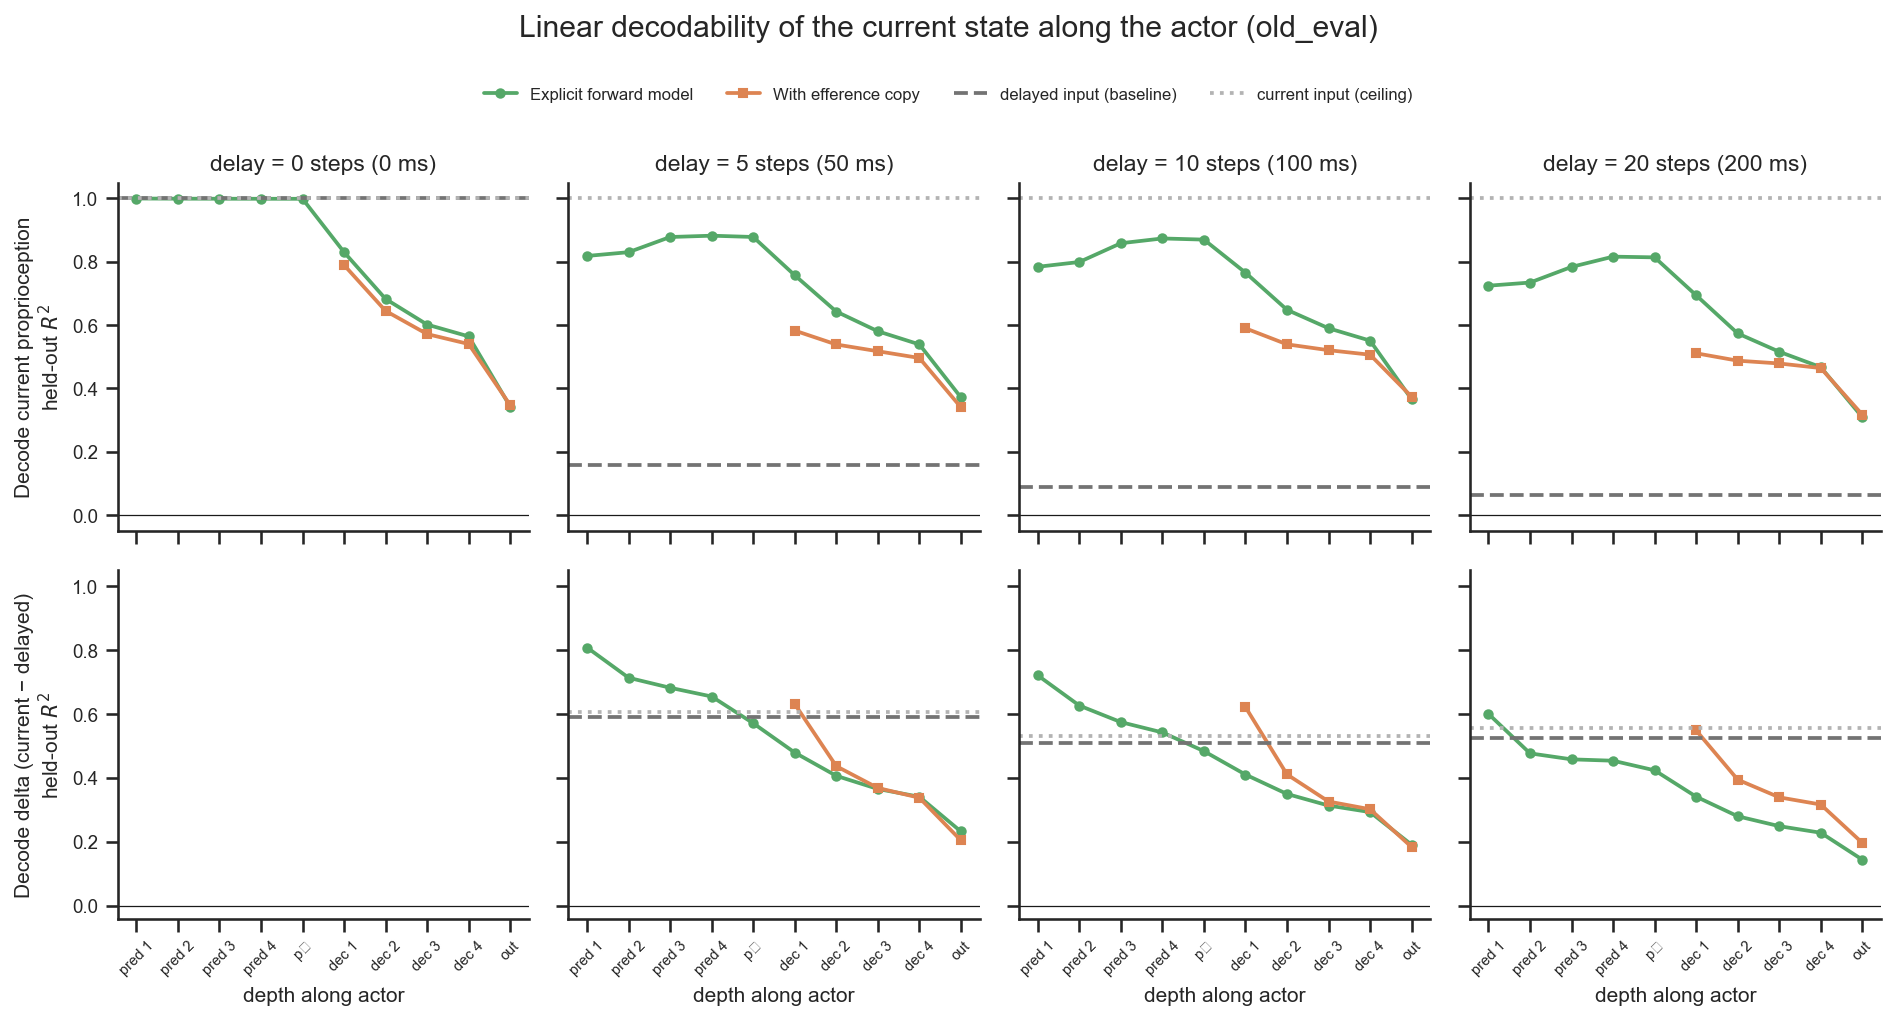
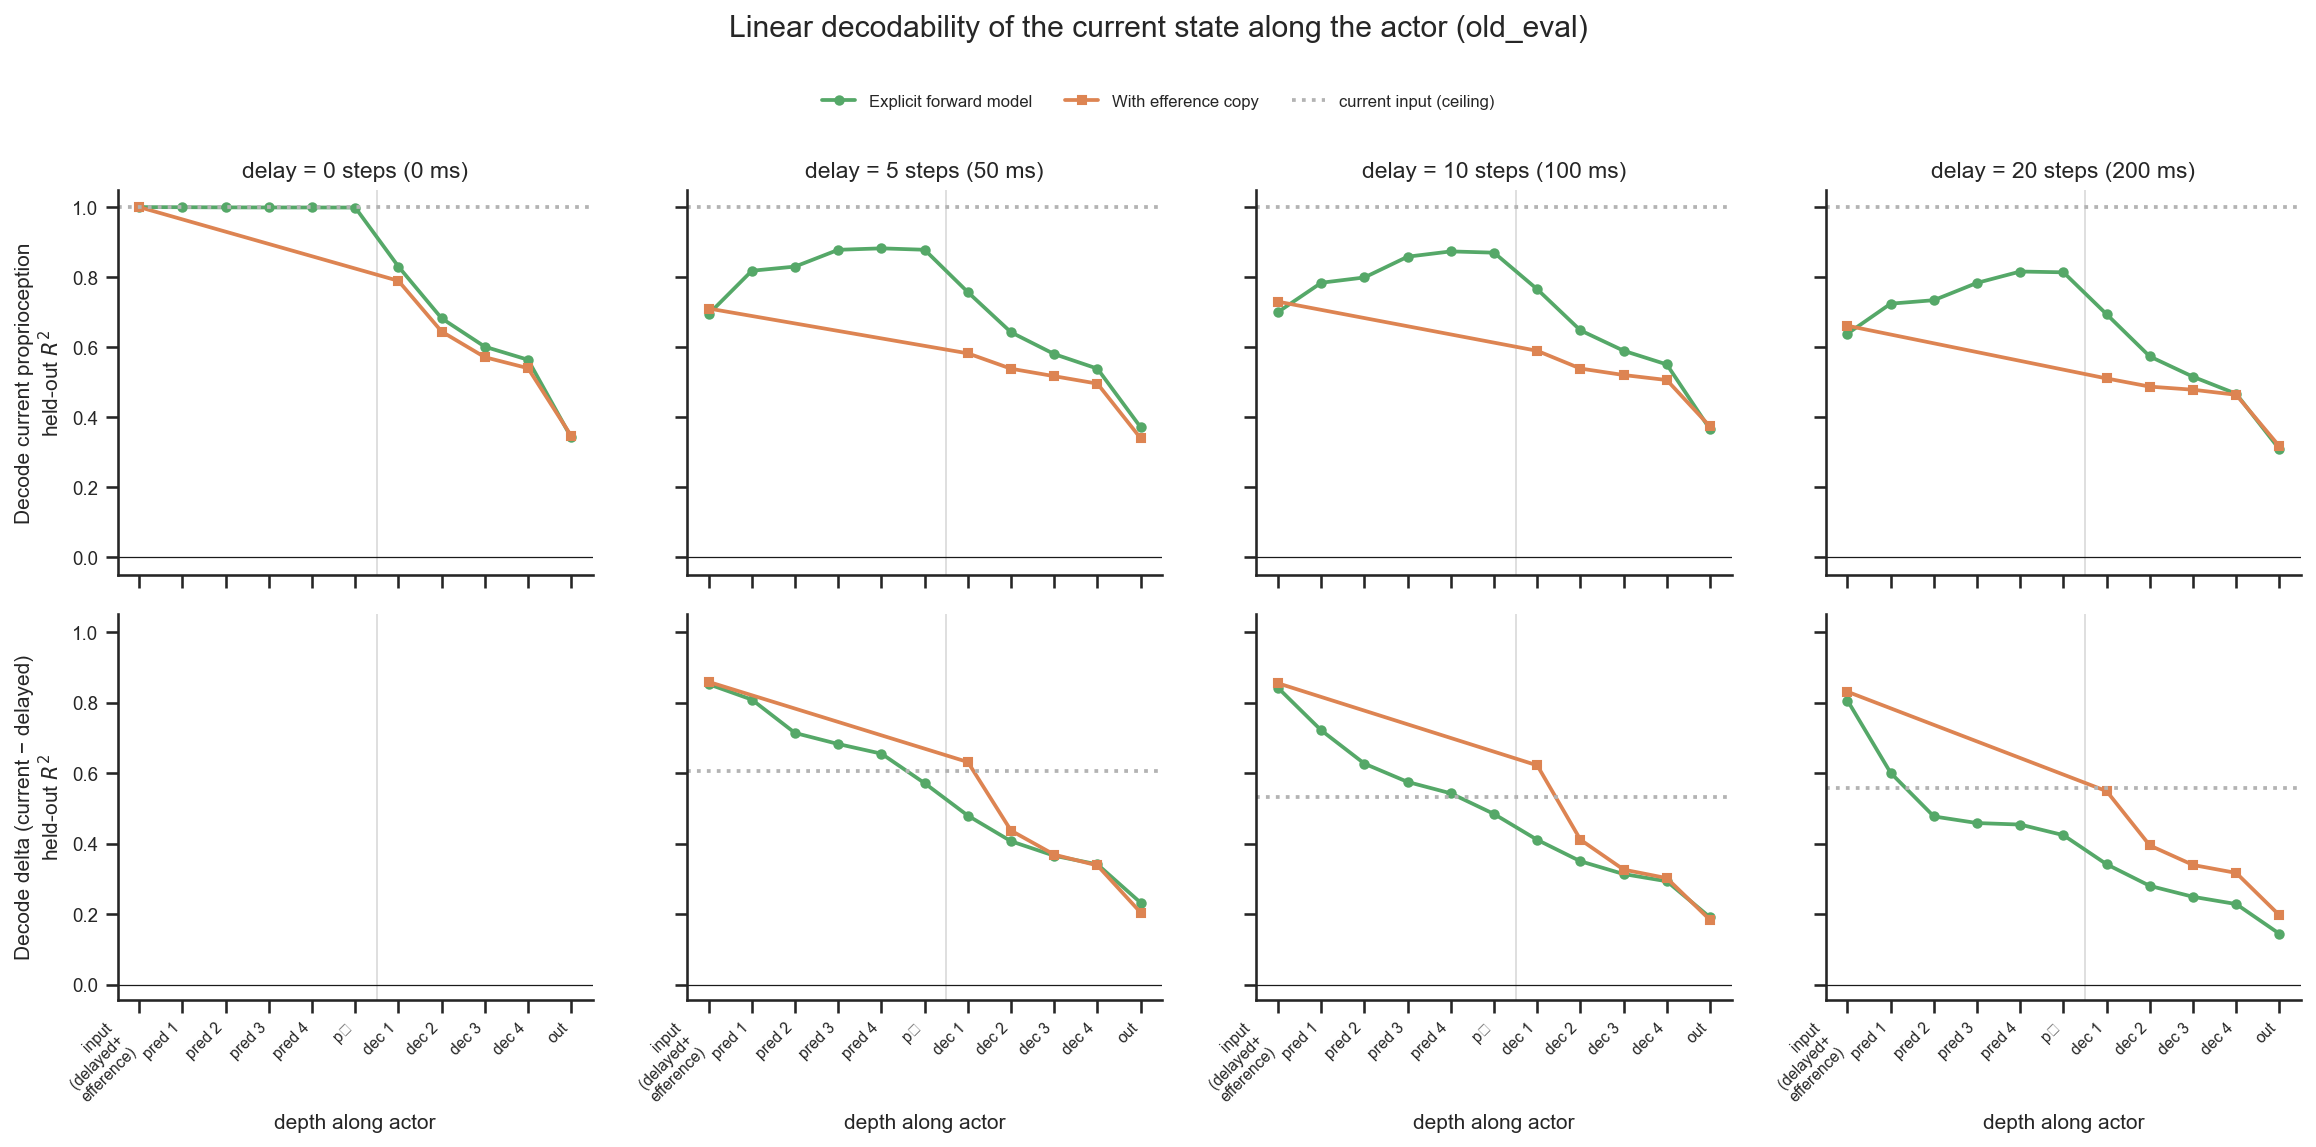
Better baseline for the implicit baseline analysis

diff --git a/analysis/implicit-forward-model/plot.py b/analysis/implicit-forward-model/plot.py
@@ -33,24 +33,27 @@ from vnl_experiments.wandb_utils.style import apply_style, color_for, label_for
 HERE = Path(__file__).resolve().parent
 FIGURES = HERE / "figures"
 
-# Shared actor x-axis. Predictor occupies 0..4, decoder 5..9; the efference net
-# only fills the decoder portion. (x, label, regex-on-path-without-"layer::").
+# Shared actor x-axis. x=0 is the network INPUT (delayed proprioception +
+# efference copy) — the "0th layer", and the principled baseline. The forward
+# model then runs its predictor (1..5), and both architectures share the decoder
+# (6..10); the efference net jumps straight from the input to its decoder.
+INPUT_STAGE = (0, "input\n(delayed+\nefference)", r"^input::delayed_plus_efference$")
 PREDICTOR_STAGES = [
-    (0, "pred 1", r"3/action/1/predictor/0$"),
-    (1, "pred 2", r"3/action/1/predictor/1$"),
-    (2, "pred 3", r"3/action/1/predictor/2$"),
-    (3, "pred 4", r"3/action/1/predictor/3$"),
-    (4, "p̂",  r"3/action/1/predictor/4$"),
+    (1, "pred 1", r"3/action/1/predictor/0$"),
+    (2, "pred 2", r"3/action/1/predictor/1$"),
+    (3, "pred 3", r"3/action/1/predictor/2$"),
+    (4, "pred 4", r"3/action/1/predictor/3$"),
+    (5, "p̂",  r"3/action/1/predictor/4$"),
 ]
 DECODER_STAGES = [
-    (5, "dec 1", r"3/action/1/(decoder/)?0$"),
-    (6, "dec 2", r"3/action/1/(decoder/)?1$"),
-    (7, "dec 3", r"3/action/1/(decoder/)?2$"),
-    (8, "dec 4", r"3/action/1/(decoder/)?3$"),
-    (9, "out",   r"3/action/1/(decoder/)?5/action$"),
+    (6, "dec 1", r"3/action/1/(decoder/)?0$"),
+    (7, "dec 2", r"3/action/1/(decoder/)?1$"),
+    (8, "dec 3", r"3/action/1/(decoder/)?2$"),
+    (9, "dec 4", r"3/action/1/(decoder/)?3$"),
+    (10, "out",  r"3/action/1/(decoder/)?5/action$"),
 ]
-XTICKS = [s[0] for s in PREDICTOR_STAGES + DECODER_STAGES]
-XLABELS = [s[1] for s in PREDICTOR_STAGES + DECODER_STAGES]
+XTICKS = [s[0] for s in [INPUT_STAGE] + PREDICTOR_STAGES + DECODER_STAGES]
+XLABELS = [s[1] for s in [INPUT_STAGE] + PREDICTOR_STAGES + DECODER_STAGES]
 
 
 def _r2(sub, target, rx):
@@ -81,7 +84,7 @@ def main() -> None:
         targets = [("proprio", "Decode current proprioception"),
                    ("delta", "Decode delta (current − delayed)")]
         fig, axes = plt.subplots(len(targets), len(delays),
-                                 figsize=(3.2 * len(delays), 6.4),
+                                 figsize=(3.9 * len(delays), 7.2),
                                  sharex=True, sharey="row", squeeze=False)
 
         for r, (target, row_title) in enumerate(targets):
@@ -89,35 +92,34 @@ def main() -> None:
                 ax = axes[r][c]
                 dd = d[d.delay_k == delay]
 
-                # forward model: predictor + decoder as ONE continuous line.
+                # forward model: input -> predictor -> p̂ -> decoder, ONE line.
                 fm = dd[dd.condition == "forward_model"]
                 if not fm.empty:
-                    xs, ys = _line(fm, target, PREDICTOR_STAGES + DECODER_STAGES)
+                    xs, ys = _line(fm, target,
+                                   [INPUT_STAGE] + PREDICTOR_STAGES + DECODER_STAGES)
                     if xs:
                         ax.plot(xs, ys, color=color_for("forward_model"),
                                 marker="o", label=label_for("forward_model"))
-                # efference: decoder portion only.
+                # efference: input -> decoder (no predictor; jumps the gap).
                 ef = dd[dd.condition == "efference"]
                 if not ef.empty:
-                    xs, ys = _line(ef, target, DECODER_STAGES)
+                    xs, ys = _line(ef, target, [INPUT_STAGE] + DECODER_STAGES)
                     if xs:
                         ax.plot(xs, ys, color=color_for("efference"),
                                 marker="s", label=label_for("efference"))
 
-                # references (prefer efference; else forward_model for that delay)
+                # The only reference line is the ceiling (decode from the true
+                # current proprioception); the baseline is now the x=0 INPUT
+                # datapoint on each line (delayed proprioception + efference copy).
                 ref = ef if not ef.empty else fm
-                base = ref[(ref.target == target)
-                           & (ref.probe == "input::delayed_proprio")]["test_r2"]
                 ceil = ref[(ref.target == target)
                            & (ref.probe == "input::current_proprio")]["test_r2"]
-                if len(base):
-                    ax.axhline(base.iloc[0], ls="--", color="0.45",
-                               label="delayed input (baseline)")
                 if len(ceil):
                     ax.axhline(ceil.iloc[0], ls=":", color="0.7",
                                label="current input (ceiling)")
 
                 ax.axhline(0, color="k", lw=0.6)
+                ax.axvline(5.5, color="0.85", lw=0.8, zorder=0)  # input|... | decoder
                 if r == 0:
                     ax.set_title(f"delay = {int(delay)} steps "
                                  f"({int(delay) * 10} ms)")
@@ -127,7 +129,7 @@ def main() -> None:
 
         for ax in axes[-1]:
             ax.set_xticks(XTICKS)
-            ax.set_xticklabels(XLABELS, fontsize=7, rotation=45)
+            ax.set_xticklabels(XLABELS, fontsize=7.5, rotation=45, ha="right")
             ax.set_xlabel("depth along actor")
         # Single shared legend (de-duplicated).
         handles, labels = axes[0][0].get_legend_handles_labels()

diff --git a/analysis/implicit-forward-model/decode.py b/analysis/implicit-forward-model/decode.py
@@ -89,6 +89,24 @@ def valid_mask(dones: np.ndarray, delay_k: int) -> np.ndarray:
     return alive & warm
 
 
+def efference_queue(actions: np.ndarray, eff: int) -> np.ndarray:
+    """Reconstruct the efference copy from the recorded action leaf.
+
+    At step ``t`` the queue the network sees is the last ``eff`` actions
+    ``[a(t-1), ..., a(t-eff)]`` (zeros before the clip starts, matching
+    ``EfferenceCopy``'s init). Returns ``[T, N, eff*A]`` (empty if ``eff == 0``).
+    Each clip is one contiguous episode from t=0, so a plain time-shift per
+    column is correct. Order within the queue is irrelevant to a linear decoder.
+    """
+    T, N, A = actions.shape
+    if eff <= 0:
+        return np.zeros((T, N, 0), dtype=actions.dtype)
+    q = np.zeros((T, N, eff, A), dtype=actions.dtype)
+    for j in range(1, eff + 1):
+        q[j:, :, j - 1, :] = actions[: T - j]
+    return q.reshape(T, N, eff * A)
+
+
 # ---------------------------------------------------------------------------
 # Ridge regression
 # ---------------------------------------------------------------------------
@@ -182,10 +200,24 @@ def decode_file(path: str | Path, *, seed=0, **kw) -> list[dict]:
     tg = make_targets(target, delay_k)
     mask = valid_mask(dones, delay_k)
 
-    # Network layers + the two reference "input" probes.
+    # Network layers + the reference "input" probes.
     probes = {f"layer::{name}": arr for name, arr in layers.items()}
     probes["input::delayed_proprio"] = tg["delayed"]
     probes["input::current_proprio"] = tg["current"]
+
+    # The actual input to the actor's decoder/predictor: the delayed
+    # proprioception PLUS the efference copy (reconstructed from the recorded
+    # action leaf). Decoding the target from this is the principled "layer 0"
+    # baseline — the best a *linear* readout of the raw forward-model inputs can
+    # do. Any deeper layer that beats it has added genuine (nonlinear / learned)
+    # computation, not just a projection of its inputs.
+    eff = int(attrs["efference_length"])
+    action_leaf = next((arr for name, arr in layers.items()
+                        if name.endswith("5/action")), None)
+    if action_leaf is not None:
+        queue = efference_queue(action_leaf, eff)
+        probes["input::delayed_plus_efference"] = np.concatenate(
+            [tg["delayed"], queue], axis=-1)
 
     targets = {"proprio": tg["current"], "delta": tg["delta"]}
 

diff --git a/analysis/implicit-forward-model/report.md b/analysis/implicit-forward-model/report.md
@@ -30,10 +30,24 @@ and report **held-out** R² (`decode.py`, `extract.py`):
 
 Splits are **by clip** (whole clips to train/test) so within-clip temporal
 autocorrelation can't leak; the ridge penalty is chosen per layer by an inner
-validation split. Two reference probes bound the result: `delayed input`
-(decode from the delayed proprioception alone — the `obs_(t-k) → obs_t`
-baseline) and `current input` (decode from the true current proprioception — a
-ceiling / sanity check).
+validation split. Reference probes bound the result:
+
+- **`input` = [delayed proprioception + efference copy]** — the *actual input* to
+  the actor's decoder/predictor (the efference queue is reconstructed by shifting
+  the recorded action leaf). Decoding the target from this linearly is the
+  principled **"layer-0" baseline**: the best a *linear* readout of the raw
+  forward-model inputs can do. Any deeper layer that beats it has added genuine
+  (nonlinear / learned) computation, not just a re-projection of its inputs. This
+  replaces the earlier delayed-proprioception-*only* baseline, which was
+  misleadingly low because it ignored the efference copy the network receives.
+- **`current input`** — decode from the true current proprioception (ceiling /
+  pipeline sanity, R²≈1).
+
+Two methodological checks (see "Method validity" below) rule out the obvious
+artefacts: the k-shift delayed signal matches the network's own internal `Delay`
+leaf to 3 decimals (delay computed correctly), and the task/encoder pathway
+decodes current proprioception at only R²≈0.02–0.11 (no leakage of current state
+from the imitation target).
 
 ## Dataset & comparability
 
@@ -44,60 +58,93 @@ ceiling / sanity check).
   (efference_length = delay_k), all `current_root`, latent 32, identical hidden
   sizes, ~600 M training steps (see `comparability.txt`). delay-0 is the matched
   floor (no delay → the input already contains the current state).
-- The figure facets by delay; the principled baseline within each delay is the
-  `delayed input` probe (decode the current state from the k-step-old
-  proprioception), not a separate network.
+- The figure facets by delay; within each delay the baseline is the `input`
+  ([delayed proprioception + efference copy]) probe, drawn as the leftmost
+  ("layer-0") point of each line.
 
 ## Figures
 
 ![Actor-pathway decodability, old_eval](figures/actor_pathway_old_eval.png)
 
-Held-out R² for decoding the **current proprioception**, first decoder hidden
-layer, across the delay sweep (efference_length = delay_k):
+Held-out R² for decoding the **current proprioception** across the delay sweep.
+The `input` column is the fair baseline (linear readout of [delayed proprio +
+efference]); `dec-1` is the first decoder hidden layer; `p̂` is the explicit
+predictor's output:
 
-| delay (steps / ms) | delayed-input baseline | efference dec-1 | forward-model dec-1 | forward-model p̂ |
-|---|---|---|---|---|
-| 0 / 0   | 1.00 | 0.79 | 0.83 | 1.00 |
-| 5 / 50  | 0.16 | 0.58 | 0.76 | 0.88 |
-| 10 / 100 | 0.09 | 0.59 | 0.77 | 0.87 |
-| 20 / 200 | 0.06 | 0.51 | 0.69 | 0.82 |
+| delay | delayed-only (old, unfair) | **input = delayed+efference** | efference dec-1 | FM dec-1 | FM p̂ |
+|---|---|---|---|---|---|
+| 0  | 1.00 | 1.00 | 0.79 | 0.83 | 1.00 |
+| 5  | 0.16 | **0.71** | 0.58 | 0.76 | 0.88 |
+| 10 | 0.09 | **0.73** | 0.59 | 0.77 | 0.87 |
+| 20 | 0.06 | **0.66** | 0.51 | 0.69 | 0.82 |
 
 ## Tentative conclusion
 
-**Yes — the standard efference-copy enc-dec network behaves as if it has learned
-an implicit forward model, and the effect strengthens with delay.** As the delay
-grows the *raw* input degrades sharply — the current proprioception is linearly
-recoverable from the k-step-old input at R² = 1.00 → 0.16 → 0.09 → 0.06 for
-delay 0/5/10/20. Yet the implicit network's first decoder hidden layer — which
-sees only the delayed proprioception, the efference copy, and the task latent —
-holds the current state at R² ≈ 0.58–0.59 through delay 5–10 and still 0.51 at
-delay 20. So the **gap over the delayed-input baseline widens with delay** (≈0.4
-→ 0.5 → 0.45 at delay 5/10/20): the harder the delay, the more current-state
-information the network manufactures internally. The only source for it is
-integrating the delayed state with the action history — a forward model.
+**With the fair baseline, the earlier "implicit forward model" claim does not
+hold up — but the explicit one does.** The decisive correction: most of the
+current proprioception is *already linearly* recoverable from the network's raw
+inputs (delayed proprioception + efference copy), at R² ≈ 0.66–0.73 across delays
+5–20. The rodent's dynamics are close enough to locally linear over 50–200 ms
+that a *linear* forward model — delayed state plus recent actions — captures most
+of the current state. The delayed-proprioception-*only* baseline (0.06–0.16) was
+misleadingly low precisely because it discarded the efference copy.
 
-As hypothesised, the **explicit** forward model does it better at every delay:
-its decoder hidden 1 reaches R² ≈ 0.69–0.77 and its dedicated `predictor` is the
-cleanest reconstruction in either network (R² ≈ 0.82–0.88 at delay 5–20, and a
-near-perfect 1.00 identity at delay 0). In the figure the forward-model line
-(green) runs *through the predictor first* and is visibly longer than the
-efference line — the explicit extra computation made literal. Along the decoder,
-decodability then falls toward the action output: the current-state estimate is
-an intermediate, not the policy's output.
+Against that fair bar:
 
-The `delta` panel (current − delayed) reinforces the mechanism. The efference
-decoder decodes the delta as well as or better than the FM decoder at hidden 1,
-because it carries the delayed proprioception explicitly in its input and can
-form the difference directly, whereas the FM decoder receives p̂ ≈ current and
-must re-derive the delayed term; the FM `predictor` decodes the delta best of
-all. (The delta is undefined at delay 0, and its baseline is relatively high
-because proprioception includes velocities that linearly anticipate the
-displacement — so the current-proprioception target is the cleaner readout.)
+- **The implicit efference network shows no evidence of a learned forward
+  model.** No layer exceeds the linear-input baseline; its first decoder layer
+  sits *below* it (0.51–0.59 vs 0.66–0.73) and decodability only declines from
+  there. By linear decodability it builds no better estimate of the current state
+  than its own inputs already afford — if anything it sheds current-state
+  information as it computes the action.
+- **The explicit forward model does build one.** Its `predictor` rises *above*
+  the linear-input baseline — p̂ at R² ≈ 0.81–0.88 vs input 0.64–0.70 (and a
+  near-perfect 1.00 identity at delay 0) — a genuinely better-than-linear,
+  learned reconstruction of the current state, as it is supervised to be. In the
+  figure the green line rises through the predictor above its input point; the
+  orange efference line only falls.
 
-Caveats: one matched run per cell (single seed), one held-out dataset
-(`old_eval`); delay-20 has no FM-vs-efference seed replication yet. Decodability
-shows the current state is *linearly present*, not that the policy *uses* it.
-Worth repeating across seeds and on `new_eval`.
+So the honest answer to the original question is **no for the implicit network
+(at least not beyond the linearly-trivial), yes for the explicit one** — and the
+reason the first analysis looked positive was an unfair baseline.
+
+Important caveats on scope:
+
+- **Metric = *linear* decodability.** The implicit network could compute a
+  nonlinear forward model whose result is no more *linearly* separable than the
+  linear-input baseline; this probe would miss it. The claim is specifically that
+  the implicit net adds no *linearly readable* current-state information beyond
+  its inputs, whereas the explicit predictor does.
+- The decoder's decline toward the output is expected — its objective is the
+  action, not state reconstruction — so "decoder < input" is not itself damning;
+  the diagnostic is whether *any* layer beats the linear-input baseline.
+- One matched run per cell (single seed), one dataset (`old_eval`).
+
+A newly-initialised (untrained) network would sharpen the "learned vs
+architectural" point, but the linear-input baseline already largely settles it:
+the implicit net does not beat a *linear* function of its inputs, so there is
+little learned forward-model computation for an untrained control to fall short
+of. The untrained control remains worthwhile mainly to confirm the explicit
+predictor's >baseline performance is learned (untrained predictor should sit at
+the input baseline).
+
+## Method validity
+
+Two checks rule out the obvious artefacts (both from the committed `data.csv`):
+
+- **Delayed input computed correctly.** The k-shift used for the baseline/delta
+  matches the network's *own* internal `Delay`-layer activation to 3 decimals
+  (R² 0.159 / 0.088 / 0.062 at delay 5 / 10 / 20 for both) — we decode from the
+  exact signal the network buffers.
+- **No leakage from the imitation target.** The entire encoder/task pathway
+  decodes current proprioception at only R² ≈ 0.02–0.11 (encoder latent ≈ 0.04),
+  so the high decoder decodability is not the current pose leaking in via the
+  reference target.
+
+The rollout is **one latched episode per clip** (reset once at frame 0, `done`
+latched monotonically, no mid-rollout reset); post-termination steps are masked,
+so the per-clip time-shift used to reconstruct the delayed proprioception and the
+efference queue exactly mirrors the network's own (never-reset) buffers.
 
 ## Recording-API notes (first real use of `with_recording`)
 
